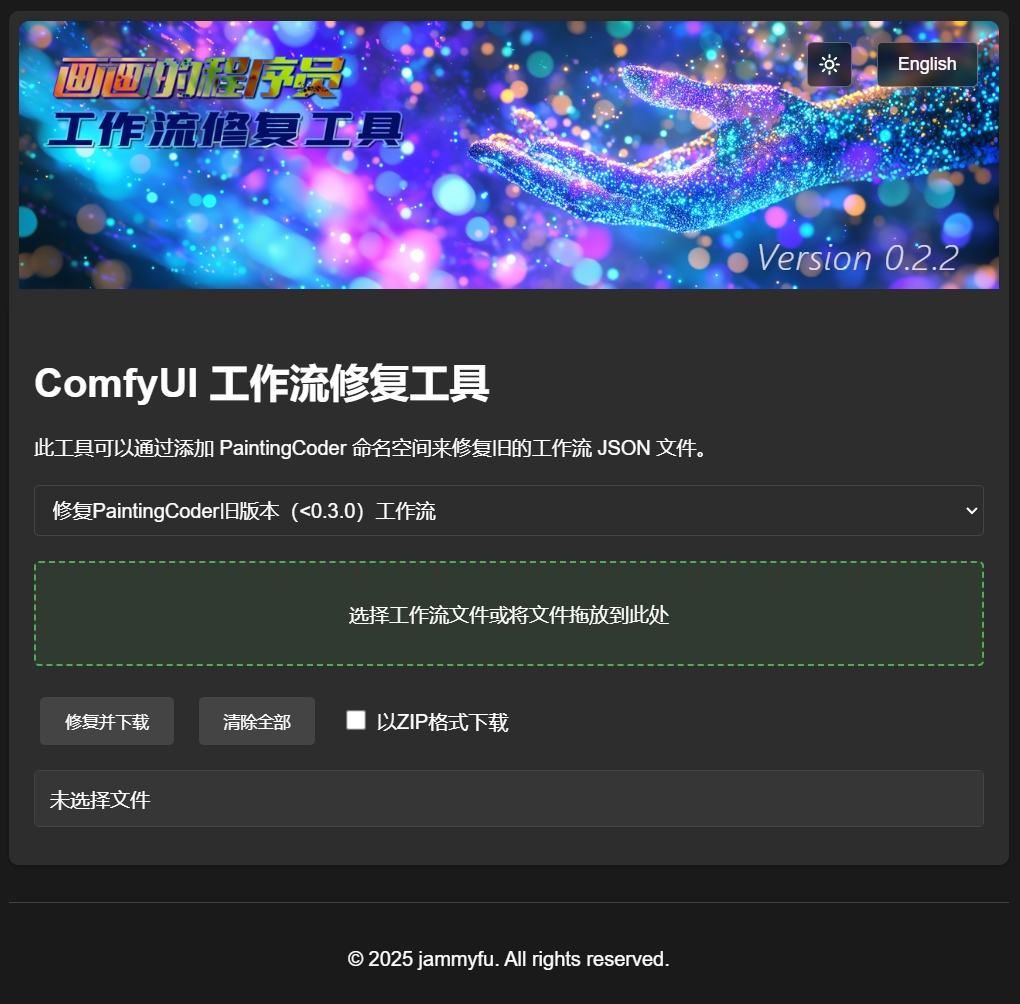
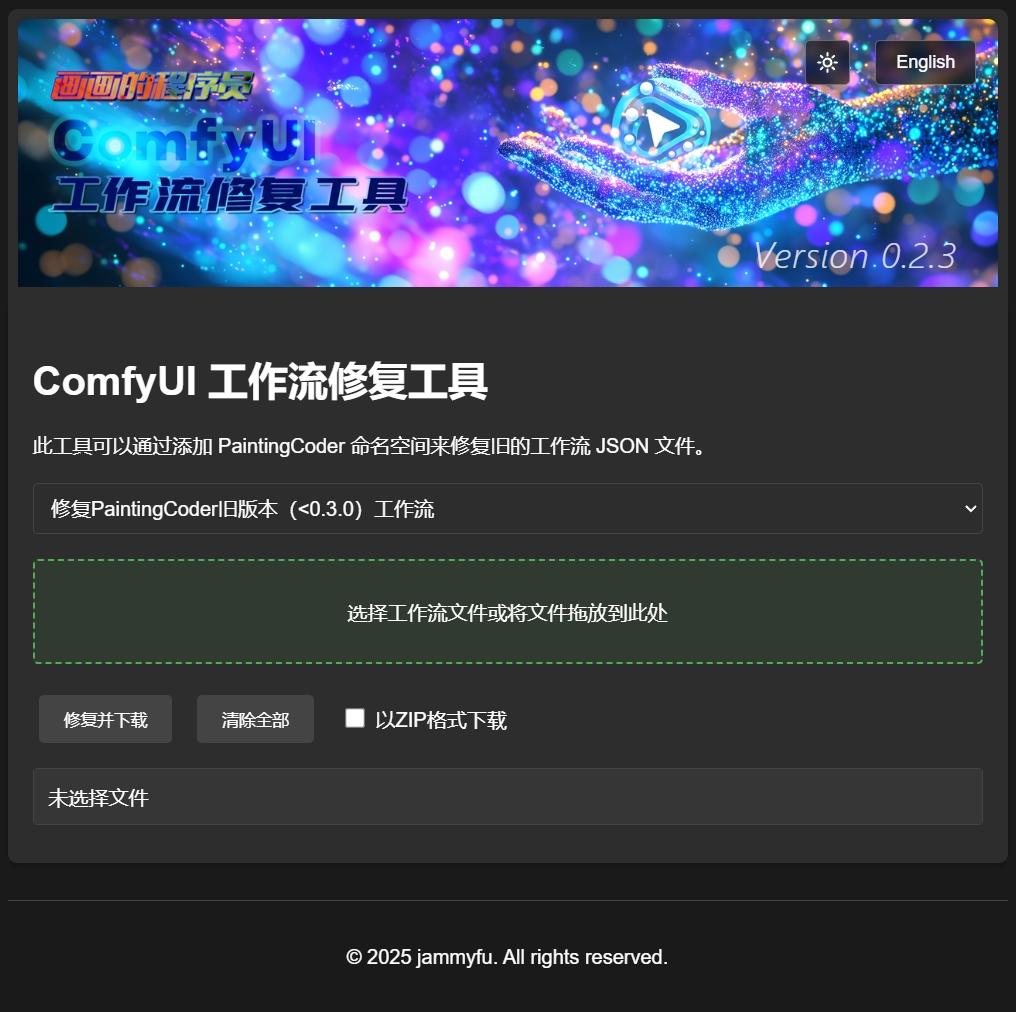
Update README files and workflow fix tool images for Version.0.2.3

diff --git a/README_CN.md b/README_CN.md
@@ -408,6 +408,16 @@ Switch节点用于在工作流中动态切换不同的输入或输出路径。
 MIT License
 
 ## 🤝 更新说明
+### 页面更新说明
+
+### v0.3.4 更新
+- **更新:**
+  - 修改了ComfyUI工作流修复工具页面，提升了用户体验
+  - 增加了更多的错误提示信息，帮助用户更快定位问题
+  - 优化了文件上传和下载功能，支持更多文件的处理
+  - 改进了路径分隔符转换功能，提升了跨平台兼容性
+  - 增强了界面响应速度，减少了加载时间
+
 
 ### v0.3.3 (2025-01-23)
 - **新增:**

diff --git a/README.md b/README.md
@@ -390,6 +390,13 @@ Usage:
 MIT License
 
 ## 🤝 Updates
+### v0.3.4 Update
+- **Updates:**
+  - Modified the ComfyUI workflow fixer tool page to enhance user experience
+  - Added more error messages to help users locate issues faster
+  - Optimized file upload and download functionality to support more file processing
+  - Improved path separator conversion functionality to enhance cross-platform compatibility
+  - Enhanced interface response speed to reduce loading time
 
 ### v0.3.3 (2025-01-23)
 - **Improvements:**
